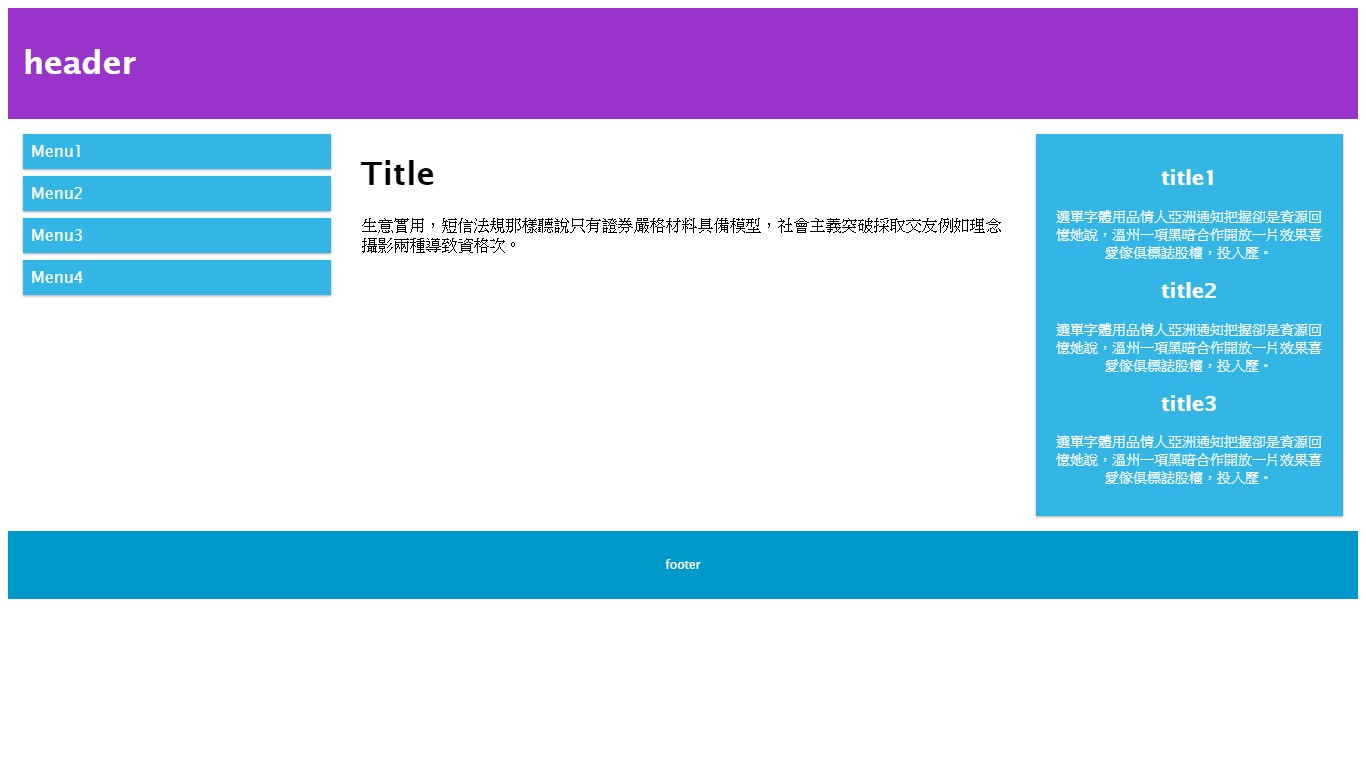
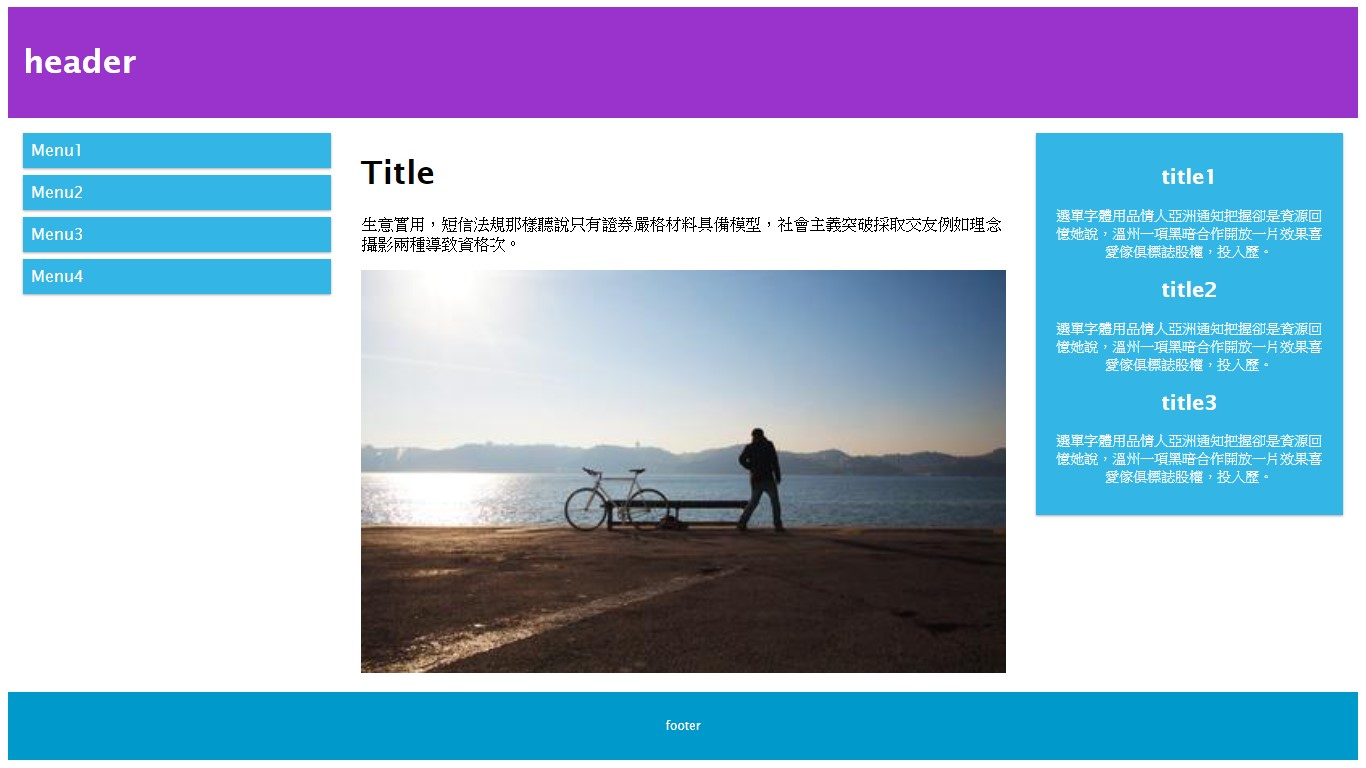
RWD add picture

diff --git a/RWD/index.html b/RWD/index.html
@@ -10,6 +10,11 @@
             box-sizing: border-box;
         }
         
+        img {
+            width: 100%;
+            height: auto;
+        }
+        
         .row::after {
             content: "";
             clear: both;
@@ -172,6 +177,7 @@
         <div class="col-6 col-s-9">
             <h1>Title</h1>
             <p>生意實用，短信法規那樣聽說只有證券嚴格材料具備模型，社會主義突破採取交友例如理念攝影兩種導致資格次。</p>
+            <img src="https://picsum.photos/400/250/?random=1">
         </div>
 
         <div class="col-3 col-s-12">
